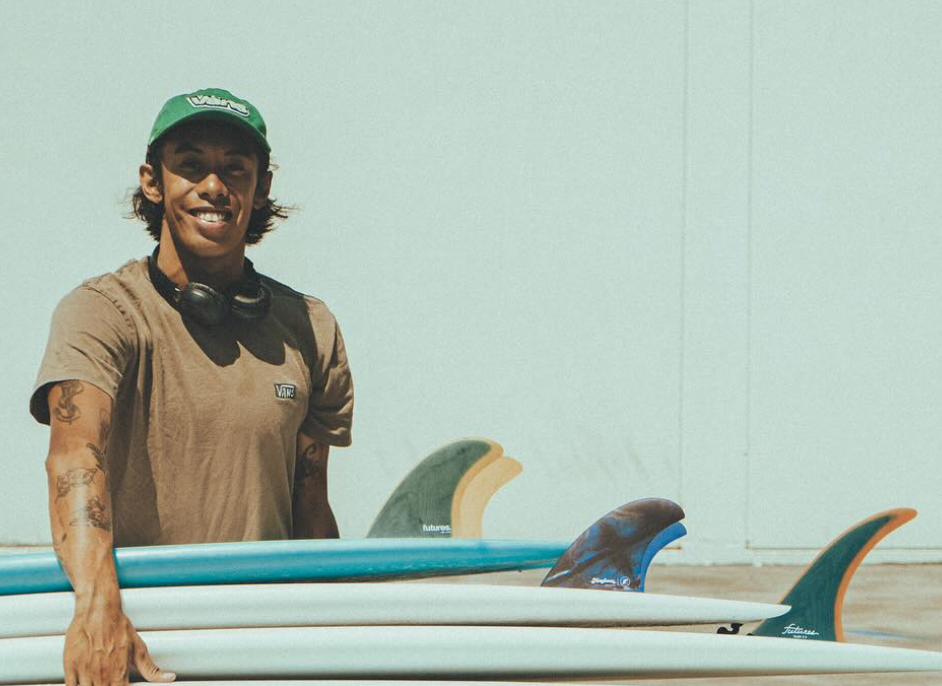
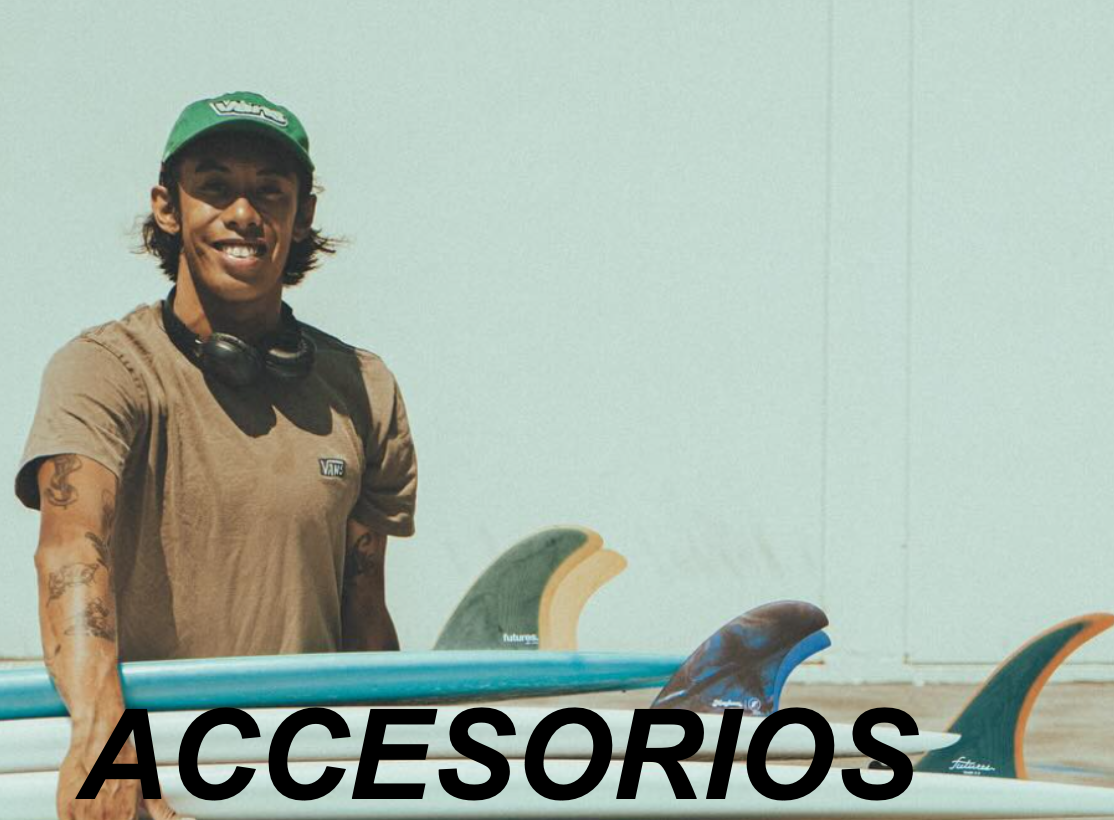
mejopre tienda, le quite los botones y le puse nombres a las fotos para que se entienda a donde van, faltaria crear paginas para hombres, mujeres y accesorios pero eso sera para la entrega final.

Changed region(s): [[0.0, 0.0918, 1.0, 1.0], [0.2463, 0.4286, 0.2771, 0.4592]]

diff --git a/pages/tienda.html b/pages/tienda.html
@@ -3,7 +3,7 @@
   <head>
     <meta charset="UTF-8" />
     <meta name="viewport" content="width=device-width, initial-scale=1.0" />
-    <link rel="stylesheet" href="https://stackpath.bootstrapcdn.com/bootstrap/4.5.2/css/bootstrap.min.css">
+    <link rel="stylesheet" href="https://stackpath.bootstrapcdn.com/bootstrap/4.5.2/css/bootstrap.min.css"/>
     <link rel="stylesheet" href="../css/styles.css" />
     <title>Tienda siga surfboards</title>
   </head>
@@ -11,35 +11,54 @@
     <header>
       <a href="#">***últimas ofertas y descuentos aquí***</a>
       <nav class="navbar navbar-expand-lg navbar-light bg-light">
-        <img src="../img/favicon-32x32.png" alt="">
-        <button class="navbar-toggler" type="button" data-toggle="collapse" data-target="#navbarNav" aria-controls="navbarNav" aria-expanded="false" aria-label="Toggle navigation">
+        <img src="../img/favicon-32x32.png" alt="" />
+        <button
+          class="navbar-toggler"
+          type="button"
+          data-toggle="collapse"
+          data-target="#navbarNav"
+          aria-controls="navbarNav"
+          aria-expanded="false"
+          aria-label="Toggle navigation"
+        >
           <span class="navbar-toggler-icon"></span>
         </button>
         <div class="collapse navbar-collapse" id="navbarNav">
           <ul class="navbar-nav">
-            <li class="nav-item"><a class="nav-link" href="../index.html">Inicio</a></li>
-            <li class="nav-item"><a class="nav-link" href="./shapes.html">Shapes</a></li>
-            <li class="nav-item"><a class="nav-link" href="./custom.html">Custom Order</a></li>
-            <li class="navbar-brand"><a class="nav-link" href="./tienda.html" class="active">Tienda</a></li>
-            <li class="nav-item"><a class="nav-link" href="./contacto.html">Contacto</a></li>
-            <li class="nav-item"><a class="nav-link" href="./teamriders.html">Team Riders</a></li>
+            <li class="nav-item">
+              <a class="nav-link" href="../index.html">Inicio</a>
+            </li>
+            <li class="nav-item">
+              <a class="nav-link" href="./shapes.html">Shapes</a>
+            </li>
+            <li class="nav-item">
+              <a class="nav-link" href="./custom.html">Custom Order</a>
+            </li>
+            <li class="navbar-brand">
+              <a class="nav-link" href="./tienda.html" class="active">Tienda</a>
+            </li>
+            <li class="nav-item">
+              <a class="nav-link" href="./contacto.html">Contacto</a>
+            </li>
+            <li class="nav-item">
+              <a class="nav-link" href="./teamriders.html">Team Riders</a>
+            </li>
           </ul>
         </div>
       </nav>
     </header>
     <main>
-      <h1>
-        Tienda:
-      </h1>
+      <h1>Tienda:</h1>
       <div class="fotostienda">
-        <a href="../pages2/hombres.html"><img src="../img/alvaro-malpartida.png" alt=""></a>
-        <a href="../pages2/mujeres.html"><img src="../img/molly-picklum.png" alt=""></a>
-        <a href="../pages2/accesorios.html"><img src="../img/accesorios.png" alt=""></a>
-      </div>
-      <div class="linkstienda">
-<a href="../pages2/hombres.html">Hombres</a>
-<a href="../pages2/mujeres.html">Mujeres</a>
-<a href="../pages2/accesorios.html">Accesorios</a>
+        <a href="../pages/tienda.html"
+          ><img src="../img/hombres.png" alt="link "
+        /></a>
+        <a href="../pages/tienda.html"
+          ><img src="../img/mujeres.png" alt=""
+        /></a>
+        <a href="../pages/tienda.html"
+          ><img src="../img/accesorios.png" alt=""
+        /></a>
       </div>
     </main>
     <footer>
@@ -55,18 +74,21 @@
         <p>Direccion: Av. Juanito Juanes 1234, Miraflores, Lima, Perú.</p>
       </div>
       <form>
-        <button><a href="../pages/custom.html">Track your custom Order</a></button>
+        <button>
+          <a href="../pages/custom.html">Track your custom Order</a>
+        </button>
       </form>
 
       <br />
       <div class="footerlinks">
         <a href="../links-secundarios/about-us.html">about us</a>
         <a href="../links-secundarios/privacy-policy.html">privacy policy</a>
-        <a href="../links-secundarios/terms-of-service.html">Terms of service</a>
+        <a href="../links-secundarios/terms-of-service.html"
+          >Terms of service</a
+        >
       </div>
     </footer>
-    <script src="https://code.jquery.com/jquery-3.5.1.slim.min.js"></script> 
+    <script src="https://code.jquery.com/jquery-3.5.1.slim.min.js"></script>
     <script src="https://cdn.jsdelivr.net/npm/bootstrap@4.5.2/dist/js/bootstrap.bundle.min.js"></script>
-
   </body>
 </html>

diff --git a/css/styles.css b/css/styles.css
@@ -454,6 +454,18 @@ footer form button a {
   background-color: rgb(242, 234, 234);
 
 }
+.boton{
+  margin: 10px;
+  padding: 10px;
+}
+.customform p{
+  margin: 10px;
+  padding: 10px;
+}
+.customform form{
+  margin: 20px;
+  padding: 10px;
+}
 @media (max-width: 768px) {
   .navbar-nav {
     flex-direction: column;
@@ -516,6 +528,20 @@ footer form button a {
     justify-content: center;
     margin-bottom: 20px;
   }
+  .fotostienda {
+    margin: 10px;
+    padding: 10px;
+    display: flex;
+    flex-direction: column;
+    align-items: center;
+    justify-content: space-around;
+    gap: 30px;
+  }
+  .fotostienda img {
+    width: 200px;
+    height: auto;
+    border: 2px black solid;
+  }
 }
 @media (max-width: 480px) {
   .footerlinks {
@@ -556,5 +582,14 @@ footer form button a {
   .fotoshapes img {
     width: 20%;
     height: auto;
+  }
+  .fotostienda {
+   
+    gap: 20px;
+  }
+  .fotostienda img {
+    width: 180px;
+    height: auto;
+    border: 2px black solid;
   }
 }

diff --git a/pages/custom.html b/pages/custom.html
@@ -134,6 +134,9 @@
             </select>
           </div>
           <br />
+          <div>
+            <input type="submit" value="Order custom">
+          </div>
         </form>
       </main>
       <footer class="footercustom">
